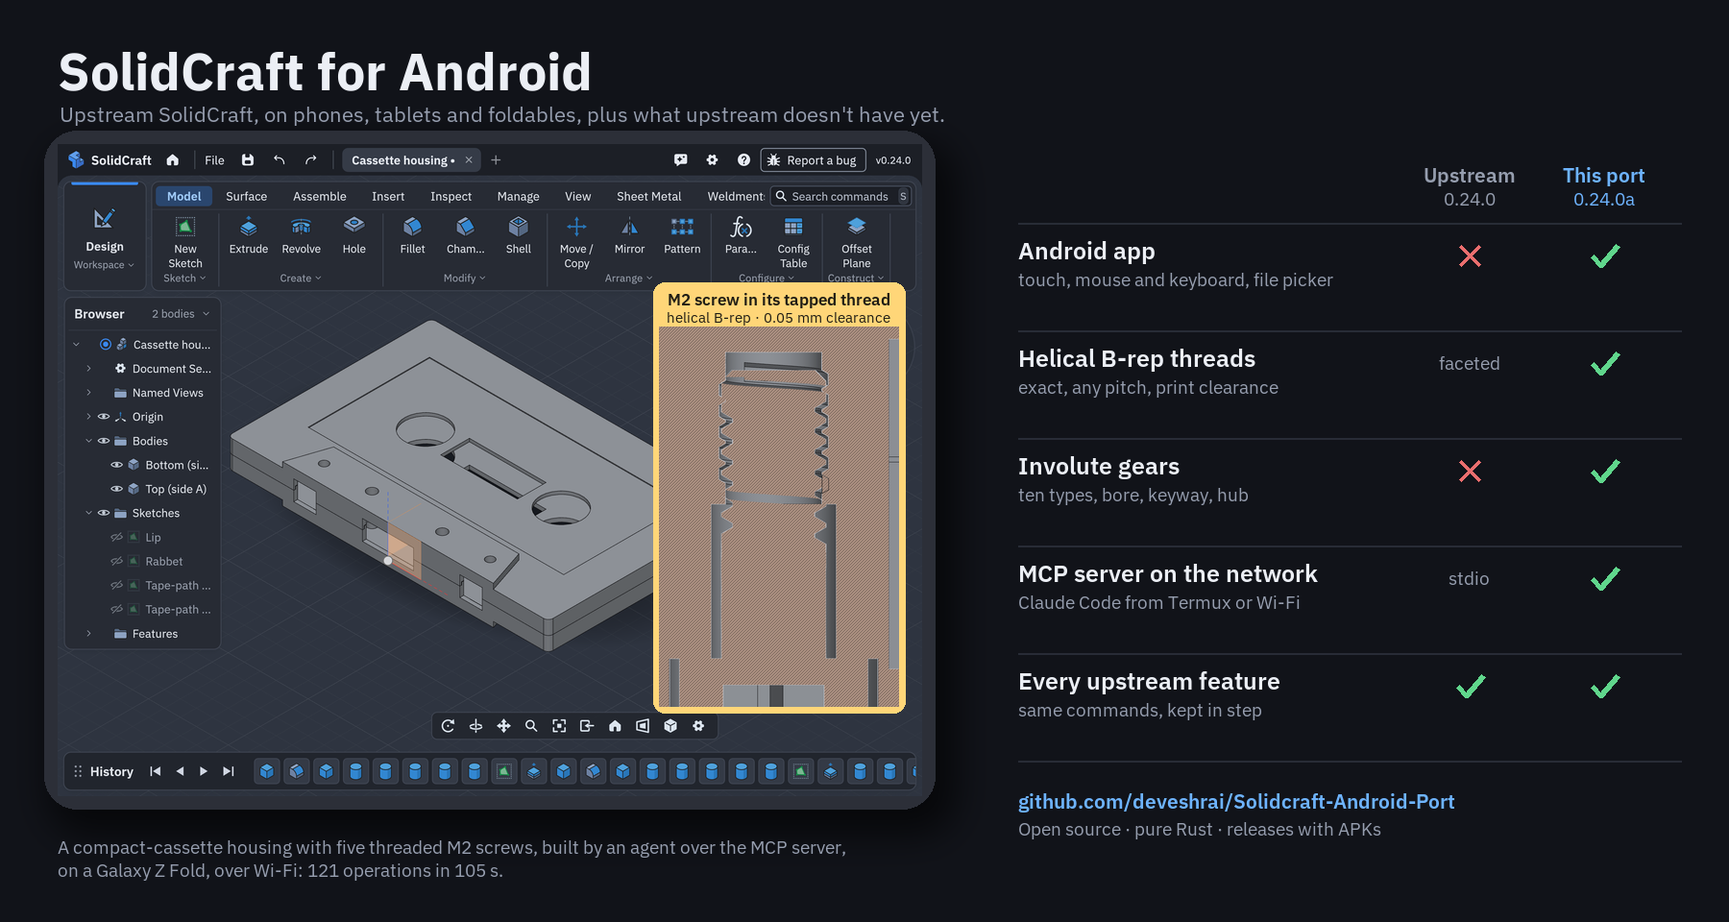
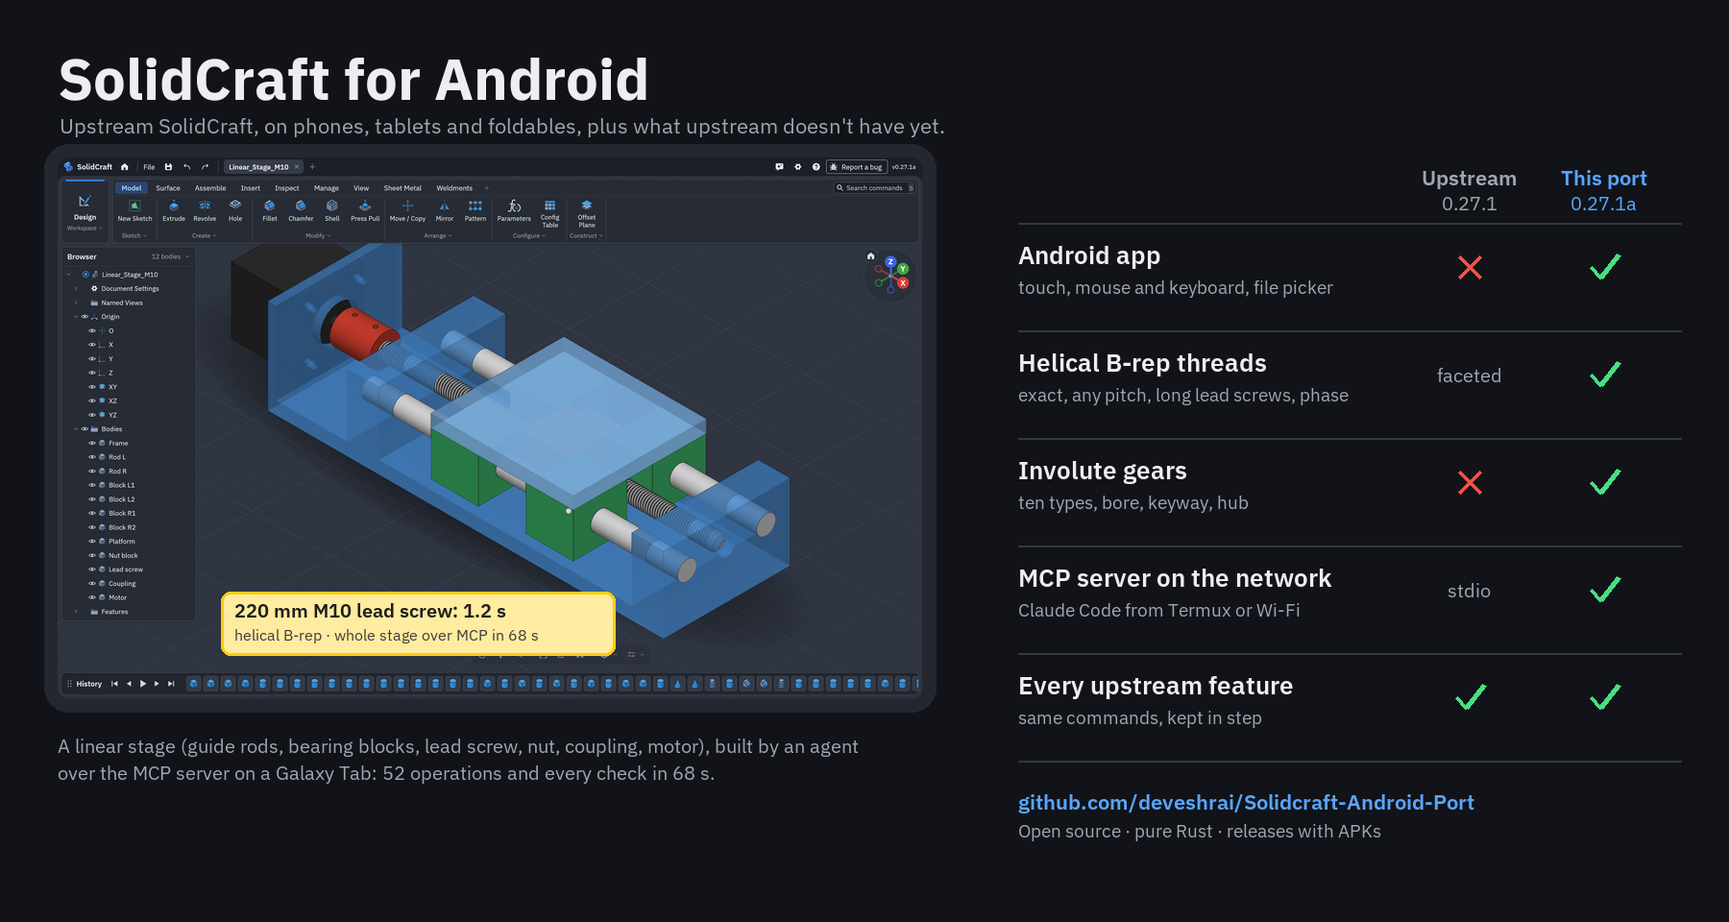
Release docs for 0.27.1a: README and hero, what's new, vs-upstream (format 45), known issues, Start angle in the thread guide; the 0.27.1a corpus design
- README: 0.27.1 / 0.27.1a, a New in 0.27.1a section with the linear-stage GIF; the hero image
  rebuilt with the linear stage and the current versions (scripts/android-hero.py makes it).
- Corpus: port-0271a-long-thread-start-angle, saved by this release's CLI (format 45 with
  helical-thread-start-angle), a 106-turn M10 thread turned 90 degrees; its groove ends join the
  known no-attachment list.
- Attribution rows for the new screenshots and GIF.

Claude-Session: https://claude.ai/code/session_01Ctt1PEDniPjCXqhfp2LZhi

diff --git a/scripts/android-hero.py b/scripts/android-hero.py
@@ -1,0 +1,96 @@
+"""The README's hero image: the port next to upstream, with a screenshot of the latest device test.
+
+    python3 scripts/android-hero.py SCREENSHOT.png docs/screenshots/android/hero-port-vs-upstream.png 0.27.1 0.27.1a
+
+Needs Pillow. Edit the call-out and caption text below for each release's test."""
+import sys
+from PIL import Image, ImageDraw, ImageFont
+
+REPO = __import__("os").path.dirname(__import__("os").path.dirname(__import__("os").path.abspath(__file__)))
+SHOT, OUT, UP, PORT = sys.argv[1], sys.argv[2], sys.argv[3], sys.argv[4]
+W, H = 1800, 960
+BG, FG, DIM, LINE = (17, 19, 25), (236, 238, 242), (160, 166, 178), (52, 56, 66)
+BLUE, GREEN, RED, YELLOW = (88, 166, 255), (74, 222, 128), (248, 81, 73), (250, 204, 21)
+PLEX = f"{REPO}/assets/fonts/ibm-plex-sans/IBMPlexSans-Variable.ttf"
+
+
+def font(size, weight="Regular"):
+    f = ImageFont.truetype(PLEX, size)
+    try:
+        f.set_variation_by_name(weight)
+    except Exception:
+        pass
+    return f
+
+
+im = Image.new("RGB", (W, H), BG)
+d = ImageDraw.Draw(im)
+d.text((60, 42), "SolidCraft for Android", font=font(60, "Bold"), fill=FG)
+d.text((62, 116), "Upstream SolidCraft, on phones, tablets and foldables, plus what upstream doesn't have yet.", font=font(22), fill=DIM)
+
+# The device screenshot in a dark rounded frame.
+shot = Image.open(SHOT).convert("RGB")
+sw = 900
+shot = shot.resize((sw, round(shot.height * sw / shot.width)), Image.LANCZOS)
+fx, fy, pad = 46, 150, 14
+frame = (fx, fy, fx + sw + 2 * pad, fy + shot.height + 2 * pad)
+d.rounded_rectangle(frame, radius=26, fill=(36, 39, 48))
+mask = Image.new("L", shot.size, 0)
+ImageDraw.Draw(mask).rounded_rectangle((0, 0, *shot.size), radius=12, fill=255)
+im.paste(shot, (fx + pad, fy + pad), mask)
+
+# Call-out over the screenshot: what the run did.
+cx, cy = fx + pad + 170, fy + pad + 452
+box = (cx, cy, cx + 410, cy + 66)
+d.rounded_rectangle(box, radius=10, fill=(255, 236, 160), outline=YELLOW, width=3)
+d.text((cx + 14, cy + 6), "220 mm M10 lead screw: 1.2 s", font=font(20, "SemiBold"), fill=(30, 30, 30))
+d.text((cx + 14, cy + 34), "helical B-rep · whole stage over MCP in 68 s", font=font(16), fill=(60, 60, 60))
+
+d.text((60, fy + shot.height + 2 * pad + 22),
+       "A linear stage (guide rods, bearing blocks, lead screw, nut, coupling, motor), built by an agent",
+       font=font(20), fill=DIM)
+d.text((60, fy + shot.height + 2 * pad + 50), "over the MCP server on a Galaxy Tab: 52 operations and every check in 68 s.", font=font(20), fill=DIM)
+
+# The comparison table.
+tx, c1, c2 = 1060, 1530, 1670
+d.text((c1, 170), "Upstream", font=font(22, "SemiBold"), fill=DIM, anchor="ma")
+d.text((c1, 198), UP, font=font(20), fill=DIM, anchor="ma")
+d.text((c2, 170), "This port", font=font(22, "SemiBold"), fill=BLUE, anchor="ma")
+d.text((c2, 198), PORT, font=font(20), fill=BLUE, anchor="ma")
+
+
+def tick(x, y):
+    d.line([(x - 14, y), (x - 4, y + 11), (x + 15, y - 13)], fill=GREEN, width=5, joint="curve")
+
+
+def cross(x, y):
+    d.line([(x - 11, y - 11), (x + 11, y + 11)], fill=RED, width=4)
+    d.line([(x - 11, y + 11), (x + 11, y - 11)], fill=RED, width=4)
+
+
+rows = [
+    ("Android app", "touch, mouse and keyboard, file picker", None, True),
+    ("Helical B-rep threads", "exact, any pitch, long lead screws, phase", "faceted", True),
+    ("Involute gears", "ten types, bore, keyway, hub", None, True),
+    ("MCP server on the network", "Claude Code from Termux or Wi-Fi", "stdio", True),
+    ("Every upstream feature", "same commands, kept in step", True, True),
+]
+y = 232
+for name, sub, up, port in rows:
+    d.line([(tx, y), (1750, y)], fill=LINE, width=2)
+    d.text((tx, y + 16), name, font=font(26, "SemiBold"), fill=FG)
+    d.text((tx, y + 54), sub, font=font(19), fill=DIM)
+    mid = y + 46
+    if up is True:
+        tick(c1, mid)
+    elif up is None:
+        cross(c1, mid)
+    else:
+        d.text((c1, mid), up, font=font(20), fill=DIM, anchor="mm")
+    tick(c2, mid)
+    y += 112
+d.line([(tx, y), (1750, y)], fill=LINE, width=2)
+d.text((tx, y + 28), "github.com/deveshrai/Solidcraft-Android-Port", font=font(22, "SemiBold"), fill=BLUE)
+d.text((tx, y + 60), "Open source · pure Rust · releases with APKs", font=font(19), fill=DIM)
+im.save(OUT, optimize=True)
+print(OUT, im.size)

diff --git a/apps/solidcraft-cli/tests/design_corpus.rs b/apps/solidcraft-cli/tests/design_corpus.rs
@@ -137,11 +137,12 @@ fn body_names_saved_before_exact_history_keep_their_pieces() {
 /// ignored test below that checks its faces; a listed plane whose face attaches fails the main
 /// check until it is removed from here.
 type Planes = &'static [([f64; 3], f64)];
-const NO_ATTACHMENT_YET: [(&str, &str, Option<Planes>, u32); 2] = [
+const NO_ATTACHMENT_YET: [(&str, &str, Option<Planes>, u32); 3] = [
     ("issue-616-lid-ribs", "Lid", None, 628),
     // Android port (no upstream issue: 0): a helical thread's groove ends are both named as made
     // from the threaded face, so neither can be told apart from the other.
     ("port-0240b-gear-helical-thread", "Bolt", Some(&[([1.0, 0.0, 0.0], 30.0), ([-0.3826834323629895, 0.9238795325121567, 0.0], -11.480503)]), 0),
+    ("port-0271a-long-thread-start-angle", "Lead screw", Some(&[([0.0, -1.0, 0.0], 0.0), ([-0.9238795325102824, 0.3826834323675143, 0.0], 0.0)]), 0),
 ];
 
 /// The issue a face is listed under, and whether it is listed by its plane (not as every face).

diff --git a/docs/android-vs-upstream.md b/docs/android-vs-upstream.md
@@ -6,7 +6,7 @@ built here first and kept up to date with every upstream release.
 
 ![The port and upstream](screenshots/android/hero-port-vs-upstream.png)
 
-Current: **port 0.25.1a**, against **upstream 0.25.1** ([what's new](android-whats-new.md)). This page is kept up to date with each
+Current: **port 0.27.1a**, against **upstream 0.27.1** ([what's new](android-whats-new.md)). This page is kept up to date with each
 port release ([keeping this page current](#keeping-this-page-current)).
 
 - [At a glance](#at-a-glance)
@@ -19,19 +19,19 @@ port release ([keeping this page current](#keeping-this-page-current)).
 
 ## At a glance
 
-| | Upstream 0.25.1 | Port 0.25.1a |
+| | Upstream 0.27.1 | Port 0.27.1a |
 |---|---|---|
 | Platforms | Windows, macOS, Linux, web | All of upstream's, **plus Android** (phones, tablets, foldables) |
 | Modelled threads | Cut as a faceted groove; the threaded body's curved faces become facets | Faceted as upstream, **or exact helical B-rep**: smooth helical faces, the rest of the body stays exact |
 | Thread sizes | Thread: ISO metric, coarse or fine (M8, M8x1), only on a face that size fits; tapped holes also UNC/UNF, G and Rp | Upstream's, **or any pitch on any diameter** (Type: Custom) |
-| Thread fit for printing | Left- or right-handed (since 0.24.0) | **Clearance**, thread depth, flank angle, start and end offsets; upstream's left- or right-handed for every kind of thread |
+| Thread fit for printing | Left- or right-handed (since 0.24.0) | **Clearance**, thread depth, flank angle, start and end offsets, a **start angle** to phase mating threads; long lead screws (hundreds of turns); upstream's left- or right-handed for every kind of thread |
 | Gears | None (requested upstream: [#6796](https://github.com/tangency-labs/solidcraft/issues/6796), [#4684](https://github.com/tangency-labs/solidcraft/issues/4684)) | **Ten involute types**: spur, helical, herringbone, internal, rack, bevel, miter, worm, worm wheel, crossed helical; bore, DIN 6885 keyway and hub; editable after |
 | Booleans on gears and helical threads | (no gears) | Gear flanks are exact Béziers, one to three faces each; B-spline surfaces skip zero basis terms; flat joins skip faces that can't reach the contact ([android-speed.md](android-speed.md)) |
 | Twisted or scaled straight sweeps | One ruled strip per segment past 64 segments or with a hole | **One smooth wall per profile segment**, holes included |
 | AI agents | MCP over stdio on the same computer (`solidcraft-cli mcp`), and the agent chat | Upstream's, **plus an MCP server on the network** (Settings › MCP server): Claude Code in Termux on the device, or on a computer on the same Wi-Fi, models in the app; long calls answer "still running" and wait through `pending`, each session on its own thread |
 | Touch | None | Orbit, pan, pinch, tap to select, finger-dragged dialog arrows |
 | Files | Native file dialogs | Android's file picker: device, SD card, Google Drive, any storage app |
-| Design file format | 41 | 42 (41 plus the helical threads) |
+| Design file format | 44 | 45 (44 plus the helical threads) |
 
 Everything else (sketching, the solver, every feature and workspace, Render, sheet metal,
 assemblies, import and export) is upstream's, unchanged, at the same version.
@@ -115,7 +115,7 @@ What it takes to run upstream's desktop app on Android
 
 - **The port opens every upstream design**, from any version.
 - **Upstream releases don't open port designs.** The helical thread fields are a design-format
-  change that upstream hasn't adopted, so the port saves format 42 where upstream 0.25.1 saves 41,
+  change that upstream hasn't adopted, so the port saves format 45 where upstream 0.27.1 saves 44,
   and upstream asks to be updated rather than silently rebuilding helical threads as faceted ones.
   This applies to every design the port saves, with or without threads.
 - **To share with upstream, export STEP.** Gears and threads arrive as exact solids.

diff --git a/README.md b/README.md
@@ -4,13 +4,13 @@
 
 **This is the Android port of SolidCraft.** It is upstream
 [tangency-labs/solidcraft](https://github.com/tangency-labs/solidcraft), kept up to date with every
-upstream release (now 0.25.1), plus an Android app and **features upstream doesn't have yet**. Current
-release: **0.25.1a** ([APKs](https://github.com/deveshrai/Solidcraft-Android-Port/releases)).
+upstream release (now 0.27.1), plus an Android app and **features upstream doesn't have yet**. Current
+release: **0.27.1a** ([APKs](https://github.com/deveshrai/Solidcraft-Android-Port/releases)).
 
 | Added in this port | What it gives you | Guide |
 |---|---|---|
 | **Android app** | Phones, tablets and foldables: one finger orbits, two pan, a pinch zooms; a mouse and keyboard work as on a desktop; files through Android's picker (device, SD card, Drive) | [Using it](docs/android-touch.md) |
-| **Helical B-rep threads** | Exact, smooth threads instead of faceted ones; any pitch on any diameter; clearance for printed parts that screw together | [Threads](docs/android-threads.md) |
+| **Helical B-rep threads** | Exact, smooth threads instead of faceted ones; any pitch on any diameter; long lead screws; clearance for printed parts that screw together; a start angle to phase mating threads | [Threads](docs/android-threads.md) |
 | **Involute gears** | Ten types (spur, helical, herringbone, internal, rack, bevel, miter, worm, worm wheel, crossed helical), bore, keyway and hub, editable after | [Gears](docs/android-gears.md) |
 | **MCP server on the network** | One switch in Settings: Claude Code in Termux on the device, or on a computer on the same Wi-Fi, models in the app while you watch | [MCP server](docs/android-mcp.md) |
 
@@ -20,7 +20,15 @@ cassette housing in two halves with five M2 screws on real threads, checked to f
 
 ![A cassette housing built over the MCP server on a Galaxy Z Fold](docs/screenshots/android/mcp-cassette-fold.gif)
 
-**New in 0.24.0b:** gears are simple B-rep (110 faces for 18 teeth instead of 326), booleans on them are
+**New in 0.27.1a:** long threads (a 220 mm M10 lead screw used to hang; now 1.2 s on a Galaxy Tab), measuring
+threaded parts gives the right volume, checks between parts a hair apart answer in seconds instead of
+minutes, a thread's **Start angle** phases it against its mate, and the title bar shows the port's version. A
+linear stage built by an agent over MCP on a Galaxy Tab in 68 s, and why a modelled screw still meets
+its modelled nut: [android-thread-mating](docs/android-thread-mating.md).
+
+![A linear stage built over MCP on a Galaxy Tab, at 4x speed](docs/screenshots/android/linear-stage-tab-0271a-4x.gif)
+
+**In 0.24.0b:** gears are simple B-rep (110 faces for 18 teeth instead of 326), booleans on them are
 much faster, and the app stays responsive through an agent's long command. A worm gearbox built by Claude
 Code on a Galaxy Tab, and what changed: [android-speed](docs/android-speed.md).
 
@@ -29,6 +37,7 @@ Code on a Galaxy Tab, and what changed: [android-speed](docs/android-speed.md).
 How the port differs from upstream, feature by feature: [android-vs-upstream](docs/android-vs-upstream.md) ·
 what's new in each release: [android-whats-new](docs/android-whats-new.md) ·
 faster gears and agents (0.24.0b): [android-speed](docs/android-speed.md) ·
+a modelled screw in a modelled nut, and the 0.27.1a device test: [android-thread-mating](docs/android-thread-mating.md) ·
 the 0.25.1a port report (merge, checks, device test): [android-port-report-0.25.1a](docs/android-port-report-0.25.1a.md) ·
 known issues: [android-known-issues](docs/android-known-issues.md) ·
 how it works and how to build it: [android](docs/android.md) ·

diff --git a/docs/android-whats-new.md b/docs/android-whats-new.md
@@ -5,6 +5,7 @@ until the next upstream release (0.24.0a, then 0.24.0b…). APKs:
 [releases](https://github.com/deveshrai/Solidcraft-Android-Port/releases). What is still wrong or
 missing: [android-known-issues.md](android-known-issues.md).
 
+- [0.27.1a](#0271a): upstream 0.26 and 0.27, long threads, a thread start angle, faster checks
 - [0.25.1a](#0251a): upstream 0.24.1, 0.25.0 and 0.25.1; a sturdier way to follow upstream
 - [0.24.0b](#0240b): faster gears, a steadier MCP server
 - [0.24.0a](#0240a): upstream 0.24.0, the MCP server, thread fixes
@@ -12,6 +13,43 @@ missing: [android-known-issues.md](android-known-issues.md).
 - [0.23.0a](#0230a): gears, upstream 0.23.0
 - [0.22.0a](#0220a): helical B-rep threads, upstream 0.22.0
 - [0.21.0a](#0210a): the first lettered release, upstream 0.21.0
+
+## 0.27.1a
+
+**Upstream 0.26.0 to 0.27.1** merged (429 commits). Among much else:
+
+- **Sketching:** an equation-driven curve (x(t), y(t)); a dimension can measure a model edge; snap where
+  two guides meet; hold horizontal or vertical and line up with other points at once; press and drag
+  draws one line; Sketch Intersect with faces and bodies; 3D sketch Line, Spline and Point.
+- **Modelling and assemblies:** feature windows choose Join, New Body or Cut from what the material
+  touches; Align places components; cut and paste features between components; Insert Design picks
+  another open design; ISO 7380-1 button head cap screws in the parts library.
+- **Working:** settings profiles (save, switch, export, import); a right-click menu in text fields;
+  History playback on the Inspect ribbon; command search shows where a command lives in the ribbon;
+  Perspective field of view and wheel zoom speed in Preferences.
+
+**The port's own changes:**
+
+- **Long threads.** A helical thread of more than about 85 turns (an M10 longer than about 128 mm)
+  hung or failed. Threads now use 16 stations a turn (0.3 µm off the true helix on M10), and are checked
+  without a second full mesh: every M10 from 15 to 220 mm builds in 0.03–0.8 s on a Mac, and a 220 mm
+  lead screw in 1.2 s on a Galaxy Tab.
+- **Measuring threaded parts** gives the right volume (a long screw used to measure larger than the
+  bare rod) and takes seconds: Measure on the linear stage below went from 67 s to 2 s on a Mac.
+- **Checks between parts a hair apart** (a screw in a bore 0.2 mm wider) mesh the two parts finer
+  instead of intersecting them: clearance 551 s → 4 s, and the right distance (it said 0 mm).
+- **Start angle** on a helical thread (Thread › Helical B-rep, or `start_angle`): turns the groove to
+  phase it against a mating thread. A modelled screw through a modelled nut still meets it at the nut's
+  ends; why, and what's next: [android-thread-mating.md](android-thread-mating.md). Saved as a pending
+  design-format change (`helical-thread-start-angle`): the port now writes format 45.
+- **The title bar shows the port's version**, with its letter: *v0.27.1a*.
+- **Android:** upstream's new clipboard reads (theme paste, the text-field Paste) are left out on
+  Android, like on the web; upstream now vendors winit 0.30.13 too, and the port's input patch is applied
+  on top of it.
+
+Tested on the emulator and a Galaxy Tab: a linear stage (guide rods, bearing blocks, lead screw, nut,
+coupling, motor) built over MCP in 68 s on the tablet; a design saved by 0.24.0b opens with the same
+volumes ([the run](android-thread-mating.md#5-the-test-run)).
 
 ## 0.25.1a
 

diff --git a/docs/android-threads.md b/docs/android-threads.md
@@ -176,6 +176,7 @@ These appear for any helical thread, ISO or custom:
 | **Clearance** | How far both flanks and the root move into the material (square to each surface) | 0 mm |
 | **Start offset** | Plain band left at the threaded length's start (the end nearest where you tapped the face) | Half a pitch |
 | **End offset** | Plain band left at the other end | Half a pitch |
+| **Start angle** | The groove turned about the axis, to phase it against a mating thread: θ moves the crests θ/360 of a pitch along ([android-thread-mating.md](android-thread-mating.md)) | 0° |
 
 Readouts, worked out as you type:
 
@@ -321,6 +322,7 @@ desktop control channel can do the same. New parameters (all optional):
 | `angle` | Thread angle (default 60 deg) |
 | `clearance` | Clearance (default 0) |
 | `start_offset`, `end_offset` | Lands at the start (nearest `face`) and end (default half a pitch; more than 0) |
+| `start_angle` | The groove turned about the face's axis (default 0 deg), to phase it against a mating thread |
 | `handedness: "left"` | Left-handed (upstream's parameter; any thread). The port's older `left_handed: true` still means the same |
 
 `depth`, `angle`, `clearance` and the offsets are refused without `helical` or `pitch`, so they
@@ -334,7 +336,7 @@ can't silently do nothing on a faceted thread.
 ```
 
 The design files store these as new optional fields of the Thread feature (`helical`, `pitch`,
-`depth`, `angle`, `clearance`, `start_offset`, `end_offset`), written only when used; the hand is
+`depth`, `angle`, `clearance`, `start_offset`, `end_offset`, `start_angle`), written only when used; the hand is
 upstream's `handedness`. A design saved by a port release before 0.24.0a with `left_handed: true`
 is rewritten as it opens (`format/pending/helical-thread-handedness.rs`).
 
@@ -384,7 +386,7 @@ renderer change was needed.
 |---|---|
 | `crates/kernel/src/thread_brep.rs` | New: `HelicalThread` (section, turns, basic depth), `helical_thread` |
 | `crates/kernel/src/lib.rs` | Exports |
-| `crates/doc/src/document.rs` | `FeatureKind::Thread` gains `helical`, `pitch`, `depth`, `angle`, `clearance`, `start_offset`, `end_offset` (all optional; old files unchanged); the hand is upstream's `handedness` |
+| `crates/doc/src/document.rs` | `FeatureKind::Thread` gains `helical`, `pitch`, `depth`, `angle`, `clearance`, `start_offset`, `end_offset`, `start_angle` (all optional; old files unchanged); the hand is upstream's `handedness` |
 | `crates/doc/src/format/pending/helical-threads.rs`, `helical-thread-handedness.rs` | The format changes: the helical fields, and older port designs' `left_handed` rewritten as `handedness` |
 | `crates/doc/src/eval.rs` | `helical_thread_on` (ISO or custom dimensions, offsets) and the helical evaluation; shared `thread_face` / `thread_span` |
 | `crates/engine/src/cmd/features.rs` | `solid.thread` parameters and checks |

diff --git a/apps/solidcraft-cli/tests/corpus/README.md b/apps/solidcraft-cli/tests/corpus/README.md
@@ -21,6 +21,7 @@ hostile variants of it never panic.
 | `issue-489-stacked-join` | v0.6.0 (809ecf7), desktop | a 70 × 84 extrude, then a 70 × 62 strip joined on its top face, sketched partly over the face's projected edges (issue #489; expected values from main at 2880525) |
 | `issue-616-lid-ribs` | v0.7.0 (a9879fa), CLI | a rounded lid with a skirt ring, a window and a slot cut through, then four ribs joined on the plate over the skirt, flush with the window's sides; v0.7.0 displaced the ribs and left a slit through the skirt and plate (issue #616; script `examples/regressions/lid_ribs_flush_with_window.json`, expected values from the fix) |
 | `port-0240b-gear-helical-thread` | Android port 0.24.0b (17b23c9b), CLI | the port's own design format: 40 with `format_pending` [`helical-thread-handedness`, `helical-threads`], a spur gear (12 teeth, bore; its parameters in component metadata) and a bolt with a left-handed helical B-rep thread. Upstream later gave 40 to other changes, so this checks that a port design still gets those changes and keeps its helical thread when it opens |
+| `port-0271a-long-thread-start-angle` | Android port 0.27.1a (0c9b7a9d), CLI | format 45 with `format_pending` [`helical-thread-handedness`, `helical-thread-start-angle`, `helical-threads`]: a Ø10 × 160 mm screw, chamfered at one end, with an M10 helical thread of about 106 turns (more than the 85 a thread could have before 0.27.1a, 16 stations a turn) turned 90° by its start angle |
 
 The scripts that made them are in `scripts/` (`issue-489-stacked-join` was drawn in the desktop
 app and has none; `issue-616-lid-ribs` is made by its regression script). Every flat face of every final body must also take an attached sketch and an

diff --git a/attribution/pending/android-port.md b/attribution/pending/android-port.md
@@ -95,3 +95,7 @@
 | docs/screenshots/android/tab-0251a-gear-dialog.jpg | SolidCraft contributors | screenshot of SolidCraft itself on Android (Galaxy Tab, 0.25.1a): the Gear dialog over gears and a threaded bolt built over MCP | MIT OR Apache-2.0 |
 | docs/screenshots/android/tab-0251a-file-menu.jpg | SolidCraft contributors | screenshot of SolidCraft itself on Android (Galaxy Tab, 0.25.1a): the File menu, Send to Slicer greyed out | MIT OR Apache-2.0 |
 | docs/screenshots/android/tab-0251a-orbit.jpg | SolidCraft contributors | screenshot of SolidCraft itself on Android (Galaxy Tab, 0.25.1a): a one-finger orbit, before and after | MIT OR Apache-2.0 |
+| docs/screenshots/android/linear-stage-tab-0271a-4x.gif | SolidCraft contributors | screen recording of SolidCraft itself on Android (Galaxy Tab, 0.27.1a), 4x speed: a linear stage built over MCP | MIT OR Apache-2.0 |
+| docs/screenshots/android/linear-stage-tab-0271a.jpg | SolidCraft contributors | screenshot of SolidCraft itself on Android (Galaxy Tab, 0.27.1a): the linear stage built over MCP | MIT OR Apache-2.0 |
+| docs/screenshots/android/linear-stage-upgrade-emulator-0271a.jpg | SolidCraft contributors | screenshot of SolidCraft itself on Android (emulator, 0.27.1a): a design saved by 0.24.0b, opened | MIT OR Apache-2.0 |
+| docs/screenshots/android/version-title-tab-0271a.jpg | SolidCraft contributors | screenshot of SolidCraft itself on Android (Galaxy Tab, 0.27.1a): the title bar with the port's version | MIT OR Apache-2.0 |

diff --git a/docs/android-known-issues.md b/docs/android-known-issues.md
@@ -4,7 +4,7 @@ What is wrong or missing in the current port release, and what is planned for th
 entry says how to work around it today. Fixed entries move to [Fixed](#fixed) with the release that
 fixed them.
 
-Current: **port 0.25.1a** (upstream 0.25.1). Next: **0.25.1b**, or the next upstream release's **a**, if upstream releases
+Current: **port 0.27.1a** (upstream 0.27.1). Next: **0.27.1b**, or the next upstream release's **a**, if upstream releases
 first. See also [android-vs-upstream.md](android-vs-upstream.md) for what upstream has that the port
 doesn't, and the reverse.
 
